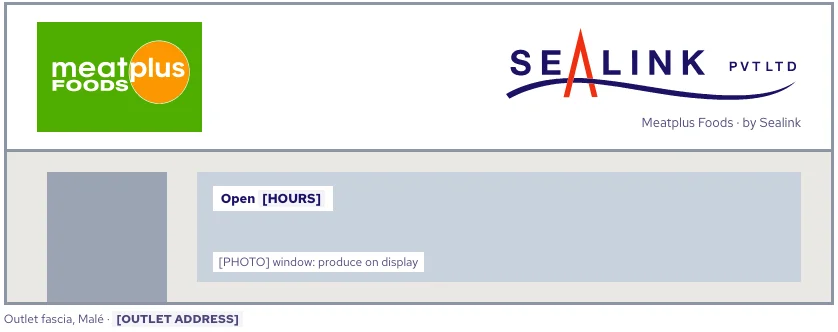
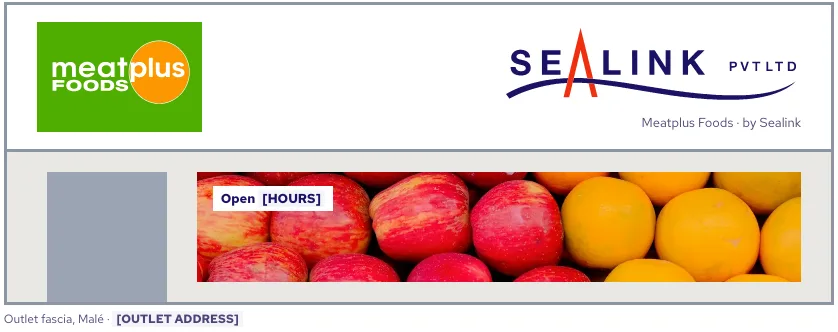
Add sample photos and photo credits

diff --git a/concepts/index.html b/concepts/index.html
@@ -668,6 +668,12 @@ body.bare #bar{display:none}
 /* ruled rows: keep the rule to the content width, not the padded box */
 [data-v="paper"] .stabs .w,[data-v="paper"] .brand .w,[data-v="paper"] .origins .w,[data-v="quiet"] .stabs .w,[data-v="quiet"] .brand .w{padding-inline:0;width:calc(100% - 2*var(--pad));max-width:1240px}
 
+/* sample photos fill the [PHOTO] slots */
+.ph.pic{position:relative;overflow:hidden;padding:0!important;border:0!important;background:#D9D7E6}
+.ph.pic img,.card .nph.pic img{position:absolute;inset:0;width:100%!important;height:100%!important;max-width:none!important;max-height:none!important;object-fit:cover!important;display:block}
+.card .nph.pic{position:relative;overflow:hidden;padding:0!important}
+[data-v="quiet"] .ph.pic img{filter:saturate(.92)}
+
 /* ============ Shared mobile ============ */
 @media (max-width:900px){
   .hero .w,.ptop .w,.trade .w{grid-template-columns:minmax(0,1fr)!important}
@@ -691,7 +697,7 @@ body.bare #bar{display:none}
     <a data-set-v="apex" href="#">1 · Apex</a><a data-set-v="quiet" href="#">2 · Quiet + Sweep</a><a data-set-v="cold" href="#">3 · Cold white</a><a data-set-v="paper" href="#">4 · Navy and paper</a></div>
   <div class="grp"><span class="lbl">Page</span>
     <a data-set-p="home" href="#">Home</a><a data-set-p="products" href="#">Products</a><a data-set-p="brands" href="#">Brands</a></div>
-  <span class="note">Items in [brackets] are content to come from Sealink.</span>
+  <span class="note">Items in [brackets] are content to come from Sealink. Photos are sample stock images.</span>
 </nav>
 <div id="site"></div>
 
@@ -719,6 +725,11 @@ const PRODUCTS=[
  {name:'Whipping Cream',brand:'Emborg',st:'Chilled'},
  {name:'Yogurt, natural',brand:'Emborg',st:'Chilled'},
 ];
+const PHOTO='assets/photos/';
+const pic=(f,alt,pos='50% 50%')=>`<div class="ph pic"><img src="${PHOTO+f}.webp" alt="Sample photo: ${alt}" style="object-position:${pos}"></div>`;
+const HERO={apex:['warehouse-racks','cold store racks and pallets','40% 50%'],quiet:['warehouse-pallets','pallets in a cold store, morning light','50% 60%'],cold:['warehouse-team','warehouse team at work','50% 55%'],paper:['chefs','chefs at work in a hotel kitchen','55% 60%']};
+const PARTNER_PIC={Emborg:['dairy-butter-cream','butter and cream','60% 50%'],Sumich:['carrots-crate','fresh carrots in a crate','55% 50%'],IOEC:['apples-oranges','apples and oranges','50% 50%']};
+const CARD_PIC={'Apples':['apples-oranges','apples','12% 50%'],'Oranges':['apples-oranges','oranges','90% 50%'],'Broccoli Mix':['frozen-veg','frozen mixed vegetables','80% 50%'],'Carrots':['carrots-crate','carrots','55% 45%'],'French Fries':['fries','French fries','50% 45%'],'Mozzarella, shredded':['cheese','cheese','50% 50%'],'Strawberries':['strawberries','strawberries','50% 50%'],'Whipping Cream':['dairy-butter-cream','cream and butter','25% 60%'],'Yogurt, natural':['yogurt','yogurt','50% 60%']};
 const x=s=>`<span class="x">${s}</span>`;
 const A=(cls='')=>`<i class="A ${cls}" aria-hidden="true"></i>`;
 const ICO_S='<svg class="ico" viewBox="0 0 24 24" fill="none" stroke="currentColor" stroke-width="2" aria-hidden="true"><circle cx="10.5" cy="10.5" r="6.5"/><path d="m15.5 15.5 5 5"/></svg>';
@@ -761,14 +772,14 @@ function home(V){
         <p class="who">Supplying resorts, hotels and restaurants across the Maldives.</p>
         <div class="find">${search(V,'Search products, brands or codes')}${shortcuts(V)}</div>
         <div class="acts"><a class="btn" href="#">Request a quote</a><a class="btn s" href="#">WhatsApp us</a></div>
-        <figure class="fig"><div class="ph">[PHOTO: cold store, team or product]</div><i class="sweep" aria-hidden="true"><i></i></i></figure>
+        <figure class="fig">${pic(...HERO[V])}<i class="sweep" aria-hidden="true"><i></i></i></figure>
       </div></section>`
     : `<section class="hero"><div class="w"><div>
         <h1>Fresh, chilled and frozen food, kept cold since 1994.</h1>
         <p class="who">Supplying resorts, hotels and restaurants across the Maldives.</p>
         ${search(V,'Search products, brands or codes')}${shortcuts(V)}
         <div class="acts"><a class="btn" href="#">Request a quote</a><a class="btn s" href="#">WhatsApp us</a></div>
-      </div><div class="ph">[PHOTO: cold store, team or product]</div></div></section>`;
+      </div>${pic(...HERO[V])}</div></section>`;
   return header(V,'home')+`<main>${hero}${why}
    <section class="blk"><div class="w">${sh('Browse by category')}<div class="cats">${CATS.map(c=>`<a class="cat" href="#">${c}</a>`).join('')}</div></div></section>
    <section class="trade">${A('crop')}<div class="w"><h2>Supplying a resort or restaurant? Send us your list and we reply with prices.</h2>
@@ -777,7 +788,8 @@ function home(V){
    ${outlet(V)}</main>`+footer(V);
 }
 function card(p,V){
-  const img = p.img ? `<img src="${IMG+p.img}" alt="${p.brand} ${p.name}">` : `<div class="nph"><b>${p.brand}</b><span>${V==='apex'?A('ta'):''}${p.st}</span></div>`;
+  const cp = CARD_PIC[p.name];
+  const img = p.img ? `<img src="${IMG+p.img}" alt="${p.brand} ${p.name}">` : cp ? `<div class="nph pic"><img src="${PHOTO+cp[0]}.webp" alt="Sample photo: ${cp[1]}" style="object-position:${cp[2]}"></div>` : `<div class="nph"><b>${p.brand}</b><span>${V==='apex'?A('ta'):''}${p.st}</span></div>`;
   const pack = p.pack || '[PACK]';
   const st = `<p class="st">${V==='apex'?A('ta'):''}${p.st}</p>`;
   const meta = (V==='cold'||V==='paper')
@@ -816,11 +828,11 @@ function brands(V){
     if(V==='cold') return `<article class="brand"><div class="w"><div>
         <div class="txt"><h2>${p.name}</h2><p class="meta">${meta}</p><a class="btn s" href="#">See ${p.name} products</a></div>
         <div class="side2"><p class="lab">Product lines</p><p class="lines">${p.lines}</p><p class="story">${x('[STORY: 2–3 lines]')}</p></div>
-        <div class="ph">[PARTNER PHOTO]</div></div></div></article>`;
+        ${pic(...PARTNER_PIC[p.name])}</div></div></article>`;
     return `<article class="brand${lead?' lead':''}">${lead?A('crop'):''}<div class="w">
       <div class="txt"><h2>${p.name}</h2><p class="meta">${meta}</p>${linesTxt}<p class="story">${x('[STORY: 2–3 lines]')}</p>
       <a class="btn${lead?'':' s'}" href="#">See ${p.name} products</a></div>
-      <div class="ph">[PARTNER PHOTO]</div></div></article>`;
+      ${pic(...PARTNER_PIC[p.name])}</div></article>`;
   };
   return header(V,'brands')+`<main>
    <section class="btop"><div class="w"><h1>Brands</h1><p>We are the Maldives distributor for these producers, some for more than 25 years.</p>${V==='quiet'?'<i class="sweep" aria-hidden="true"><i></i></i>':''}</div></section>

diff --git a/credits.html b/credits.html
@@ -1,0 +1,34 @@
+<!doctype html>
+<html lang="en">
+<head>
+<meta charset="utf-8">
+<meta name="viewport" content="width=device-width,initial-scale=1">
+<meta name="robots" content="noindex,nofollow">
+<title>Sealink · Photo credits</title>
+<link rel="stylesheet" href="https://fonts.googleapis.com/css2?family=Source+Serif+4:opsz,wght@8..60,400;8..60,500;8..60,600&family=Source+Sans+3:wght@400;500;600&display=swap">
+<link rel="stylesheet" href="style.css">
+<style>.credits{padding-block:72px 96px}.credits h1{font-size:40px;line-height:1.1}.credits p{margin-top:16px;max-width:640px}.credits ul{margin-top:28px;padding-left:20px;line-height:1.9}</style>
+</head>
+<body>
+<main class="wrap credits">
+  <p><a href="index.html">&larr; Back to the presentation</a></p>
+  <h1>Photo credits</h1>
+  <p>The photos in these concepts are sample stock images from Unsplash, used under the Unsplash License. We will replace them with photos of Sealink&rsquo;s own cold store, team and products.</p>
+  <ul>
+      <li>Cold store racks and forklift: photo by AFINIS Group (AFINIS GASKET Production), <a href="https://unsplash.com/photos/OnbSOhz0oig">on Unsplash</a></li>
+      <li>Pallets in warm morning light: photo by Vida Huang, <a href="https://unsplash.com/photos/I-_wYj9yOzw">on Unsplash</a></li>
+      <li>Warehouse team at work: photo by Adrian Sulyok, <a href="https://unsplash.com/photos/c_4eaGRDSVU">on Unsplash</a></li>
+      <li>Chefs in a professional kitchen: photo by Zoren Tan, <a href="https://unsplash.com/photos/fhp0t_fXXPg">on Unsplash</a></li>
+      <li>White box truck at a loading bay: photo by Maxim Tolchinskiy, <a href="https://unsplash.com/photos/crHhZlES310">on Unsplash</a></li>
+      <li>Butter and cream: photo by Jess Bailey, <a href="https://unsplash.com/photos/tT5ACBfqo0s">on Unsplash</a></li>
+      <li>Carrots in a crate: photo by David Holifield, <a href="https://unsplash.com/photos/uidpH617Fb8">on Unsplash</a></li>
+      <li>Apples and oranges: photo by Gowtham AGM, <a href="https://unsplash.com/photos/ncpxDcsws10">on Unsplash</a></li>
+      <li>Frozen mixed vegetables: photo by Vitalii Abakumov, <a href="https://unsplash.com/photos/bVnKQADj4IY">on Unsplash</a></li>
+      <li>French fries: photo by Fernanda Martinez, <a href="https://unsplash.com/photos/H2RzlOijhlQ">on Unsplash</a></li>
+      <li>Strawberries: photo by Anton Darius, <a href="https://unsplash.com/photos/FCrgmqqvl-w">on Unsplash</a></li>
+      <li>Yogurt with granola: photo by Welcome (Unsplash user name), <a href="https://unsplash.com/photos/lE3LsH1Tx-I">on Unsplash</a></li>
+      <li>Cheese on a board: photo by Simon Sapper, <a href="https://unsplash.com/photos/aLUCJreCnsg">on Unsplash</a></li>
+  </ul>
+</main>
+</body>
+</html>

diff --git a/index.html b/index.html
@@ -50,7 +50,7 @@
       <li><strong>The website is both a corporate site and a product catalogue,</strong> with room to add trade login and online ordering later.</li>
       <li><strong>These are concepts to choose from,</strong> not final designs.</li>
     </ol>
-    <p class="note">Items in square brackets, such as [PHOTO] or [HOURS], mark content we still need from Sealink. They are placeholders and will be filled in with your material.</p>
+    <p class="note">Items in square brackets, such as [PHOTO] or [HOURS], mark content we still need from Sealink. They are placeholders and will be filled in with your material. Photos are sample stock images; we will replace them with photos of Sealink's own cold store, team and products.</p>
   </div>
 </section>
 
@@ -329,6 +329,7 @@
   <div class="wrap">
     <img src="img/logo-sealink.png" alt="Sealink Pvt Ltd" width="1410" height="365" loading="lazy">
     <p>Concepts prepared for Sealink Pvt Ltd by Novest · November 2026. For discussion only.</p>
+    <p><a href="credits.html">Photo credits</a></p>
   </div>
 </footer>
 
